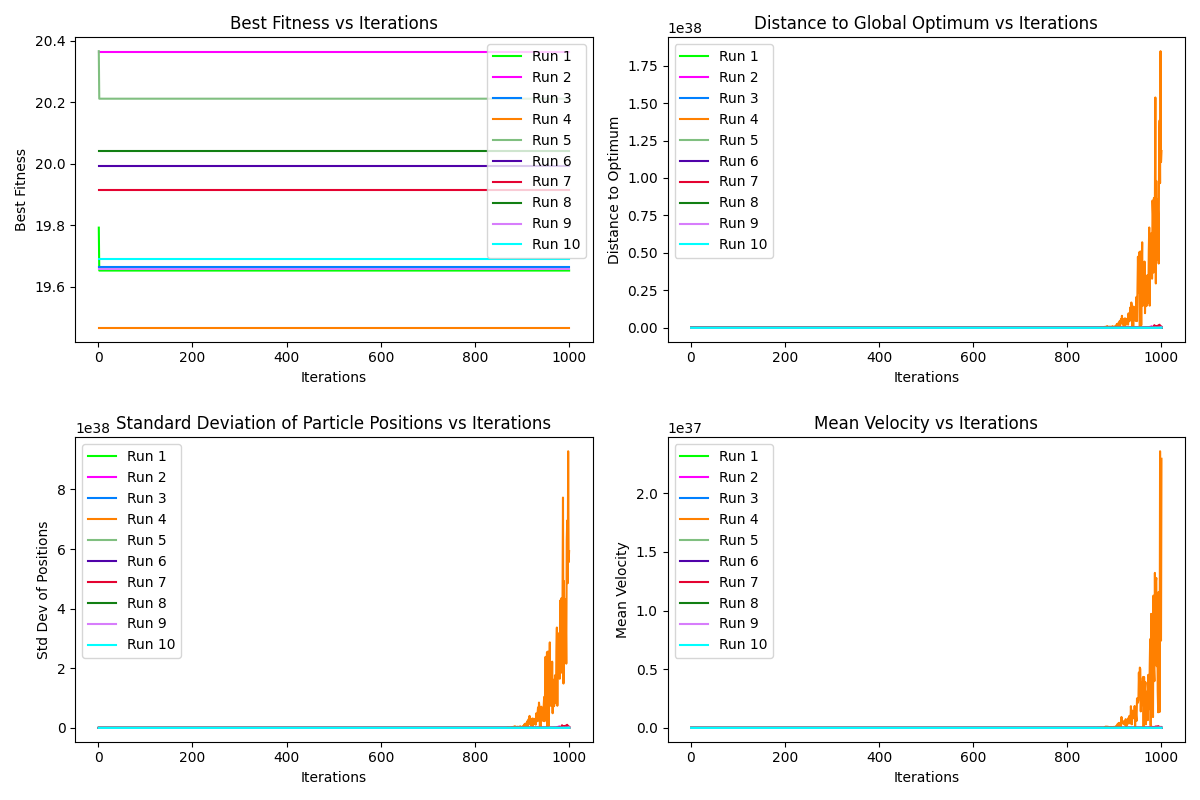
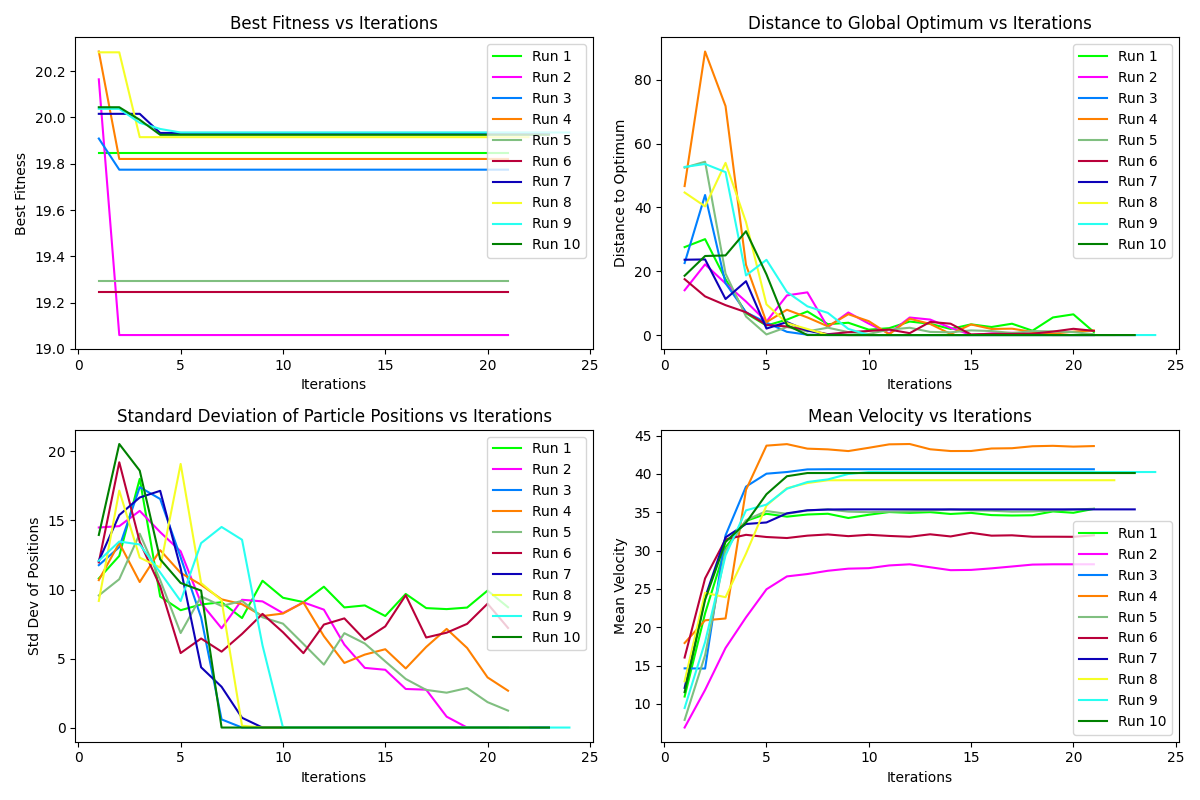
added terminating condition

diff --git a/run_experiments.py b/run_experiments.py
@@ -50,81 +50,82 @@ def run_experiment(swarm_size, num_runs=10, pso_type="standard", topology_type="
     plt.close()
 
 
-# run_experiment(5,num_runs=1,file_name="metrics_std_pso.png")
+run_experiment(5,num_runs=1,file_name="metrics_std_pso.png")
 
 # part6
-run_experiment(30, file_name="metrics_std_pso.png")
+#run_experiment(30, file_name="metrics_std_pso.png")
 # run_experiment(30, pso_type="inertia",
 #                file_name="metrics_std_pso_weight_adjust.png")
 
-
+"""
 # # part7
 run_experiment(20, file_name="metrics_std_pso_swarm20.png")
 run_experiment(100, file_name="metrics_std_pso_swarm100.png")
 run_experiment(200, file_name="metrics_std_pso_swarm200.png")
 
 # # part8
-# run_experiment(30, pso_type="inertia",
-#                file_name="metrics_std_pso_weight_adjust.png")
+run_experiment(30, pso_type="inertia",
+                file_name="metrics_std_pso_weight_adjust.png")
 
 # # part9
-# run_experiment(30, file_name="metrics_std_pso_topo_gbest.png")
-# run_experiment(30, topology_type="ring",
-#                file_name="metrics_std_pso_topo_ring.png")
-# run_experiment(30, topology_type="star",
-#                file_name="metrics_std_pso_topo_star.png")
-# run_experiment(30, topology_type="rand",
-#                file_name="metrics_std_pso_topo_rand.png")
+run_experiment(30, file_name="metrics_std_pso_topo_gbest.png")
+run_experiment(30, topology_type="ring",
+                file_name="metrics_std_pso_topo_ring.png")
+run_experiment(30, topology_type="star",
+                file_name="metrics_std_pso_topo_star.png")
+run_experiment(30, topology_type="rand",
+                file_name="metrics_std_pso_topo_rand.png")
 
 # # part10
 # # try 20 gbest inertia
-# run_experiment(20, topology_type="gbest", pso_type="inertia",
-#                file_name="metrics_weight_adjust_pso_topo_gbest_swarm20.png")
+run_experiment(20, topology_type="gbest", pso_type="inertia",
+                file_name="metrics_weight_adjust_pso_topo_gbest_swarm20.png")
 # # try 100 gbest inertia
-# run_experiment(100, topology_type="gbest", pso_type="inertia",
-#                file_name="metrics_weight_adjust_pso_topo_gbest_swarm100.png")
+run_experiment(100, topology_type="gbest", pso_type="inertia",
+                file_name="metrics_weight_adjust_pso_topo_gbest_swarm100.png")
 # # try 200 gbest inertia
-# run_experiment(200, topology_type="gbest", pso_type="inertia",
-#                file_name="metrics_weight_adjust_pso_topo_gbest_swarm200.png")
+run_experiment(200, topology_type="gbest", pso_type="inertia",
+                file_name="metrics_weight_adjust_pso_topo_gbest_swarm200.png")
 # # try 200 gbest standard
-# run_experiment(200, topology_type="gbest",
-#                file_name="metrics_std_pso_topo_gbest_swarm200.png")
+run_experiment(200, topology_type="gbest",
+                file_name="metrics_std_pso_topo_gbest_swarm200.png")
 
 # # try 20 ring inertia
-# run_experiment(20, topology_type="ring", pso_type="inertia",
-#                file_name="metrics_weight_adjust_pso_topo_ring_swarm20.png")
+run_experiment(20, topology_type="ring", pso_type="inertia",
+                file_name="metrics_weight_adjust_pso_topo_ring_swarm20.png")
 # # try 100 ring inertia
-# run_experiment(100, topology_type="ring", pso_type="inertia",
-#                file_name="metrics_weight_adjust_pso_topo_ring_swarm100.png")
+run_experiment(100, topology_type="ring", pso_type="inertia",
+                file_name="metrics_weight_adjust_pso_topo_ring_swarm100.png")
 # # try 200 ring inertia
-# run_experiment(200, topology_type="ring", pso_type="inertia",
-#                file_name="metrics_weight_adjust_pso_topo_ring_swarm200.png")
+run_experiment(200, topology_type="ring", pso_type="inertia",
+                file_name="metrics_weight_adjust_pso_topo_ring_swarm200.png")
 # # try 200 ring standard
-# run_experiment(200, topology_type="ring",
-#                file_name="metrics_std_pso_topo_ring_swarm200.png")
+run_experiment(200, topology_type="ring",
+                file_name="metrics_std_pso_topo_ring_swarm200.png")
 
 # # try 20 star inertia
-# run_experiment(20, topology_type="star", pso_type="inertia",
-#                file_name="metrics_weight_adjust_pso_topo_star_swarm20.png")
+run_experiment(20, topology_type="star", pso_type="inertia",
+                file_name="metrics_weight_adjust_pso_topo_star_swarm20.png")
 # # try 100 star inertia
-# run_experiment(100, topology_type="star", pso_type="inertia",
-#                file_name="metrics_weight_adjust_pso_topo_star_swarm20.png")
+run_experiment(100, topology_type="star", pso_type="inertia",
+                file_name="metrics_weight_adjust_pso_topo_star_swarm20.png")
 # # try 200 star inertia
-# run_experiment(200, topology_type="star", pso_type="inertia",
-#                file_name="metrics_weight_adjust_pso_topo_star_swarm200.png")
+run_experiment(200, topology_type="star", pso_type="inertia",
+                file_name="metrics_weight_adjust_pso_topo_star_swarm200.png")
 # # try 200 star standard
-# run_experiment(200, topology_type="star",
-#                file_name="metrics_std_pso_topo_star_swarm200.png")
+run_experiment(200, topology_type="star",
+                file_name="metrics_std_pso_topo_star_swarm200.png")
 
 # # try 20 rand inertia
-# run_experiment(20, topology_type="rand", pso_type="inertia",
-#                file_name="metrics_weight_adjiust_pso_topo_rand_swarm20.png")
+run_experiment(20, topology_type="rand", pso_type="inertia",
+                file_name="metrics_weight_adjiust_pso_topo_rand_swarm20.png")
 # # try 100 rand inertia
-# run_experiment(100, topology_type="rand", pso_type="inertia",
-#                file_name="metrics_weight_adjiust_pso_topo_rand_swarm100.png")
+run_experiment(100, topology_type="rand", pso_type="inertia",
+                file_name="metrics_weight_adjiust_pso_topo_rand_swarm100.png")
 # # try 200 rand inertia
-# run_experiment(200, topology_type="rand", pso_type="inertia",
-#                file_name="metrics_weight_adjiust_pso_topo_rand_swarm200.png")
+run_experiment(200, topology_type="rand", pso_type="inertia",
+                file_name="metrics_weight_adjiust_pso_topo_rand_swarm200.png")
 # # try 200 rand standard
-# run_experiment(200, topology_type="rand",
-#                file_name="metrics_std_pso_topo_rand_swarm200.png")
+run_experiment(200, topology_type="rand",
+                file_name="metrics_std_pso_topo_rand_swarm200.png")
+"""

diff --git a/pso_variants.py b/pso_variants.py
@@ -102,7 +102,7 @@ class PSO:
             sum_velocity = np.sum(np.abs(mean_velocity))
             velocity_vector_length.append(sum_velocity / self.num_dimensions)
 
-            if self.global_best_fitness < 1e-6:
+            if len(global_fitness) > 20 and self.global_best_fitness == global_fitness[i-19]:
                 break
 
         return x, global_fitness, swarm_centre_of_mass, standard_deviation, velocity_vector_length
